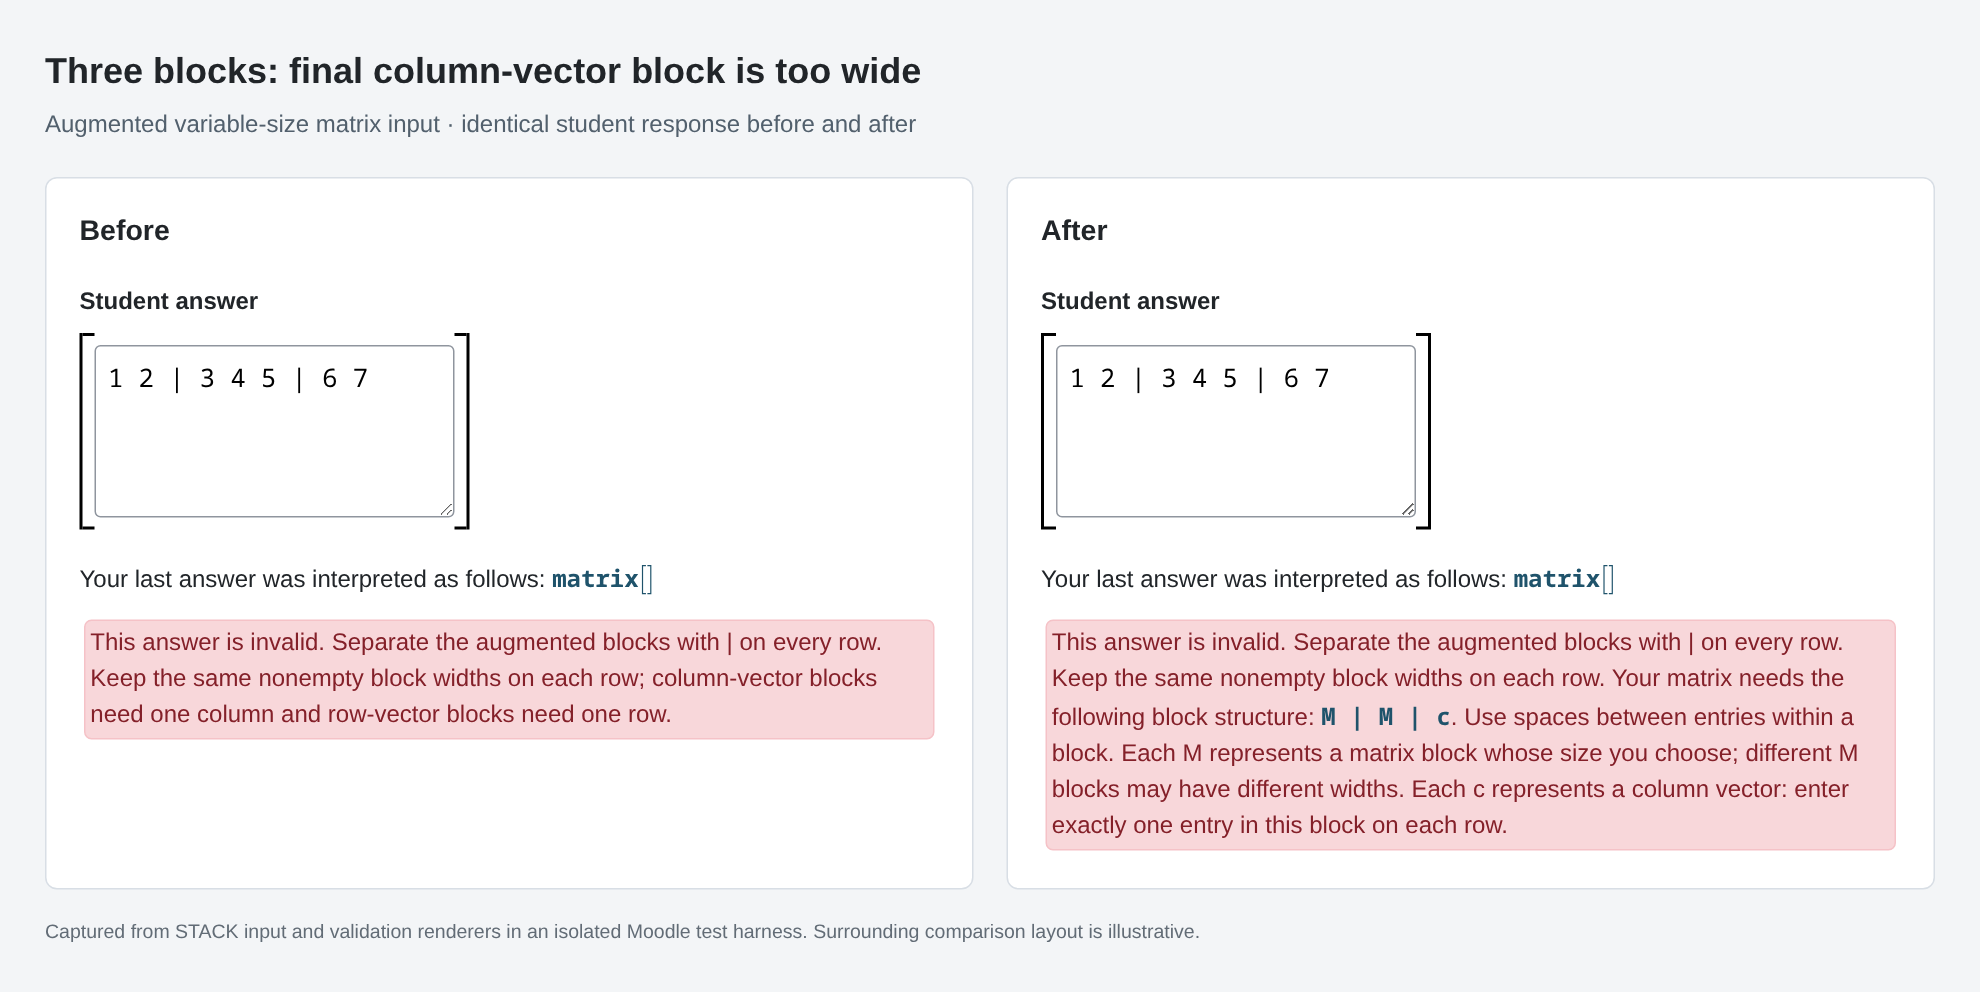
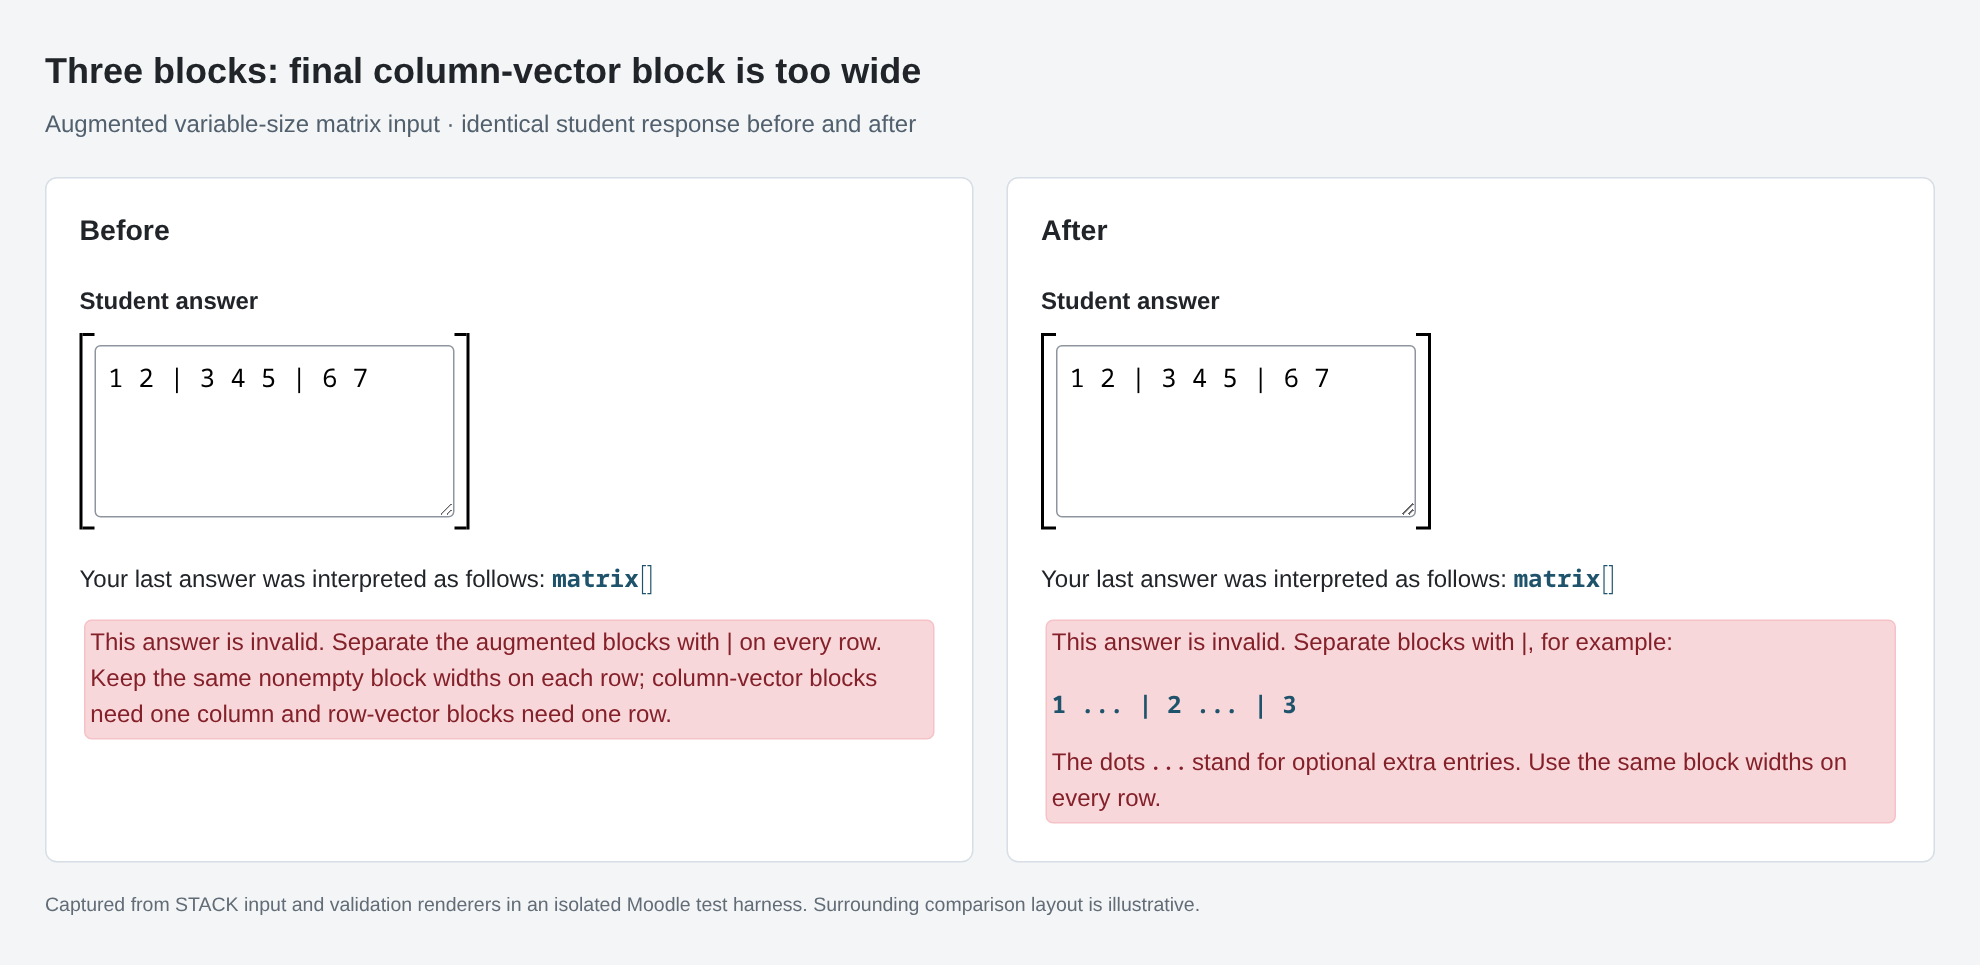
Use concise example rows in augmented matrix feedback

diff --git a/tests/input_varmatrix_test.php b/tests/input_varmatrix_test.php
@@ -667,15 +667,15 @@ final class input_varmatrix_test extends qtype_stack_testcase {
         );
     }
     /**
-     * Explain the required block types without disclosing the model's dimensions or entries.
+     * Illustrate the required blocks without disclosing the model's dimensions or entries.
      *
      * @dataProvider augmented_structure_feedback_provider
      * @param string $model Instantiated teacher answer.
      * @param string $raw Malformed student response.
-     * @param string $pattern Expected block pattern.
-     * @param string[] $types Expected block explanations.
+     * @param string $pattern Expected example row.
+     * @param bool $onerow Whether the entire response must use one row.
      */
-    public function test_augmented_structure_feedback($model, $raw, $pattern, $types): void {
+    public function test_augmented_structure_feedback($model, $raw, $pattern, $onerow): void {
         $options = new stack_options();
         $el = stack_input_factory::make('varmatrix', 'ans1', 'M', $options);
         $el->adapt_to_model_answer($model);
@@ -685,13 +685,18 @@ final class input_varmatrix_test extends qtype_stack_testcase {
             );
             $this->assertEquals(stack_input::INVALID, $state->status);
             $this->assertStringContainsString(
-                'Your matrix needs the following block structure: <span class="stacksyntaxexample">' .
-                $pattern . '</span>.', $state->errors
+                '<pre class="stacksyntaxexample">' . $pattern . '</pre>', $state->errors
             );
-            foreach (['matrix', 'c', 'r'] as $type) {
-                $explanation = stack_string('varmatrixaugmentedblock' . $type);
-                $this->assertEquals(in_array($type, $types) ? 1 : 0, substr_count($state->errors, $explanation));
-            }
+            $this->assertEquals(
+                strpos($pattern, '...') !== false ? 1 : 0,
+                substr_count($state->errors, 'The dots (...) stand for optional extra entries.')
+            );
+            $this->assertStringContainsString(
+                $onerow ? 'Use only one row.' : 'Use the same block widths on every row.', $state->errors
+            );
+            $this->assertStringNotContainsString(
+                $onerow ? 'Use the same block widths on every row.' : 'Use only one row.', $state->errors
+            );
             $this->assertStringNotContainsString('9876', $state->errors);
             $this->assertStringNotContainsString('? ?', $state->errors);
         }
@@ -705,20 +710,24 @@ final class input_varmatrix_test extends qtype_stack_testcase {
     public static function augmented_structure_feedback_provider(): array {
         $model = 'aug_matrix(matrix([9876,2],[3,4]),c(5,6))';
         return [
-            'missing separator' => [$model, "1 2 3\n4 5 6", 'M | c', ['matrix', 'c']],
-            'inconsistent widths' => [$model, "1 2 | 3\n4 | 5", 'M | c', ['matrix', 'c']],
-            'empty block' => [$model, '1 2 |', 'M | c', ['matrix', 'c']],
-            'wide column vector' => [$model, '1 | 2 3', 'M | c', ['matrix', 'c']],
-            'extra separator' => [$model, '1 | 2 | 3', 'M | c', ['matrix', 'c']],
+            'missing separator' => [$model, "1 2 3\n4 5 6", '1 ... | 2', false],
+            'different teacher dimensions' => [
+                'aug_matrix(matrix([9876],[2],[3]),c(4,5,6))', '1 2 3', '1 ... | 2', false,
+            ],
+            'only column vectors' => ['aug_matrix(c(9876,2),c(3,4))', '1 2', '1 | 2', false],
+            'inconsistent widths' => [$model, "1 2 | 3\n4 | 5", '1 ... | 2', false],
+            'empty block' => [$model, '1 2 |', '1 ... | 2', false],
+            'wide column vector' => [$model, '1 | 2 3', '1 ... | 2', false],
+            'extra separator' => [$model, '1 | 2 | 3', '1 ... | 2', false],
             'matrix blocks' => [
                 'aug_matrix(matrix([9876,2]),matrix([3]),matrix([4,5,6]))',
-                '1 | 2', 'M | M | M', ['matrix'],
+                '1 | 2', '1 ... | 2 ... | 3 ...', false,
             ],
             'row vector with multiple rows' => [
-                'aug_matrix(r(9876,2),r(3))', "1 | 2\n3 | 4", 'r | r', ['r'],
+                'aug_matrix(r(9876,2),r(3))', "1 | 2\n3 | 4", '1 ... | 2 ...', true,
             ],
             'mixed block types' => [
-                'aug_matrix(c(9876),matrix([2,3]),r(4,5))', '1 2 3', 'c | M | r', ['c', 'matrix', 'r'],
+                'aug_matrix(c(9876),matrix([2,3]),r(4,5))', '1 2 3', '1 | 2 ... | 3 ...', true,
             ],
         ];
     }

diff --git a/stack/input/varmatrix/varmatrix.class.php b/stack/input/varmatrix/varmatrix.class.php
@@ -407,15 +407,16 @@ class stack_varmatrix_input extends stack_input {
                 $this->augmented_widths($contents) === null
             ) {
                 $valid = false;
-                $errors[] = stack_string('varmatrixaugmentedstructure');
-                $symbols = ['matrix' => 'M', 'c' => 'c', 'r' => 'r'];
-                $structure = array_map(function($type) use ($symbols) {
-                    return $symbols[$type];
-                }, $this->blocktypes);
-                $errors[] = stack_string('varmatrixaugmentedpattern', implode(' | ', $structure));
-                foreach (array_unique($this->blocktypes) as $type) {
-                    $errors[] = stack_string('varmatrixaugmentedblock' . $type);
+                $example = [];
+                foreach ($this->blocktypes as $i => $type) {
+                    $example[] = ($i + 1) . ($type === 'c' ? '' : ' ...');
                 }
+                $errors[] = stack_string('varmatrixaugmentedstructure', implode(' | ', $example));
+                if (in_array('matrix', $this->blocktypes) || in_array('r', $this->blocktypes)) {
+                    $errors[] = stack_string('varmatrixaugmentedellipsis');
+                }
+                $errors[] = stack_string(in_array('r', $this->blocktypes) ?
+                    'varmatrixaugmentedonerow' : 'varmatrixaugmentedrows');
         }
         [$secrules, $filterstoapply] = $this->validate_contents_filters($basesecurity);
         // Separate rules for inert display logic, which wraps floats with certain functions.

diff --git a/lang/en/qtype_stack.php b/lang/en/qtype_stack.php
@@ -2074,8 +2074,7 @@ $string['sbasen_validate_invalid_digits'] = 'Some of the digits in base-N number
 
 $string['matrixaugmentedshape'] = 'An augmented matrix input requires at least two nonempty blocks with the same number of rows.';
 
-$string['varmatrixaugmentedstructure'] = 'Separate the augmented blocks with | on every row. Keep the same nonempty block widths on each row.';
-$string['varmatrixaugmentedpattern'] = 'Your matrix needs the following block structure: <span class="stacksyntaxexample">{$a}</span>. Use spaces between entries within a block.';
-$string['varmatrixaugmentedblockmatrix'] = 'Each M represents a matrix block whose size you choose; different M blocks may have different widths.';
-$string['varmatrixaugmentedblockc'] = 'Each c represents a column vector: enter exactly one entry in this block on each row.';
-$string['varmatrixaugmentedblockr'] = 'Each r represents a row vector: enter one or more entries in this block, and use only one row for the whole matrix.';
+$string['varmatrixaugmentedstructure'] = 'Separate blocks with |, for example:<pre class="stacksyntaxexample">{$a}</pre>';
+$string['varmatrixaugmentedellipsis'] = 'The dots (...) stand for optional extra entries.';
+$string['varmatrixaugmentedrows'] = 'Use the same block widths on every row.';
+$string['varmatrixaugmentedonerow'] = 'Use only one row.';

diff --git a/doc/en/Authoring/Inputs/Matrix_input.md b/doc/en/Authoring/Inputs/Matrix_input.md
@@ -70,10 +70,11 @@ Rows and matrix-block widths are student-selected; the model does not fix their 
 does fix the number and constructor types of blocks. A `c(...)` block must remain one column and an
 `r(...)` block must remain one row. Matrix blocks can have any positive number of columns. Every row
 must have the same nonempty block widths. Missing or inconsistent separators are validation errors.
-For a malformed block structure, validation shows the required pattern, for example `M | c`, and
-explains the block types present: `M` is a matrix block of student-selected size, `c` is a single column,
-and `r` is a single row. Repeated `M` blocks need not have equal widths. The hint does not reveal the
-teacher's entries or matrix-block dimensions.
+For a malformed block structure, validation shows a short example row, such as `1 ... | 2`.
+The dots stand for optional extra entries in a matrix or row-vector block; a column-vector block
+contains just one entry. The example uses neither the teacher's entries nor matrix-block dimensions.
+Feedback reminds students to keep block widths consistent between rows, or use only one row when
+the model contains a row-vector block.
 
 Submitted answers preserve `aug_matrix(...)` and the block constructors, and validation renders the
 augmented matrix with the selected outer bracket style. Model answers, syntax hints, saved responses
